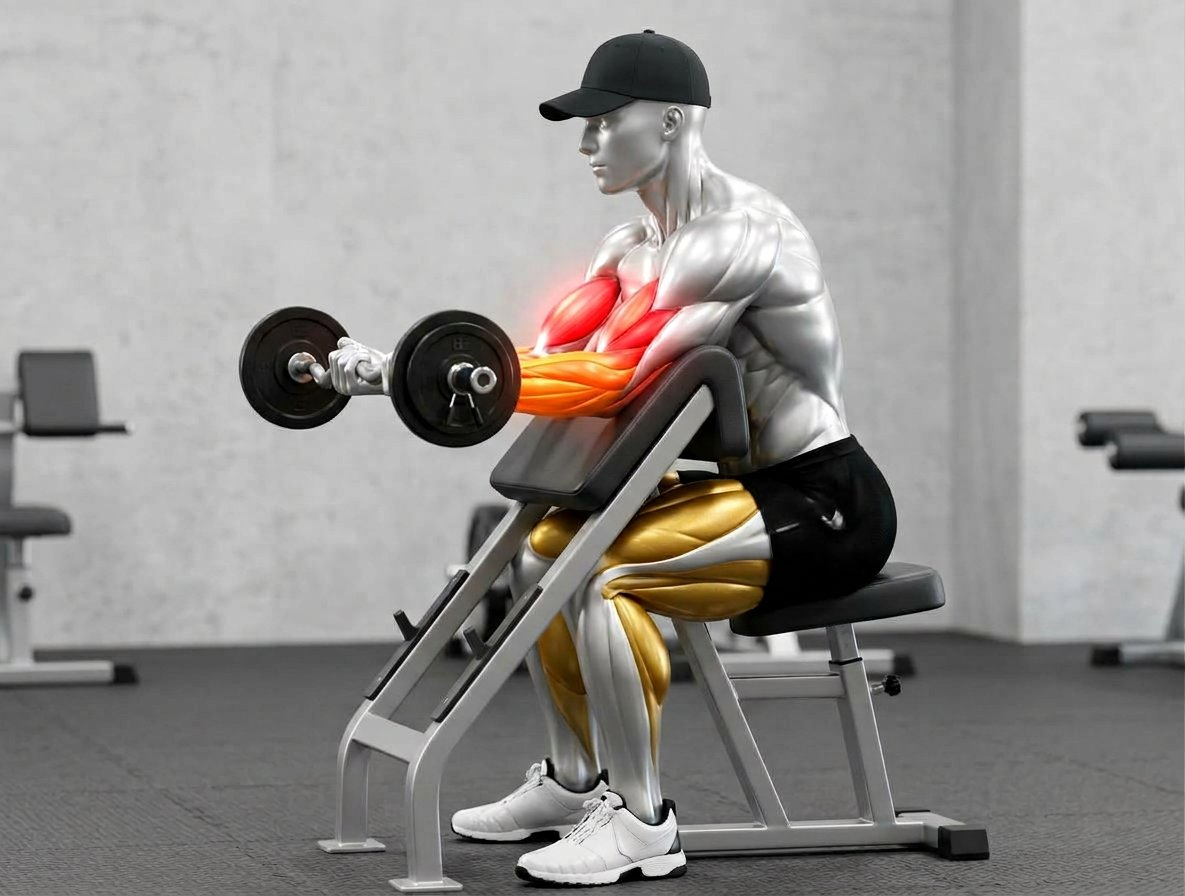
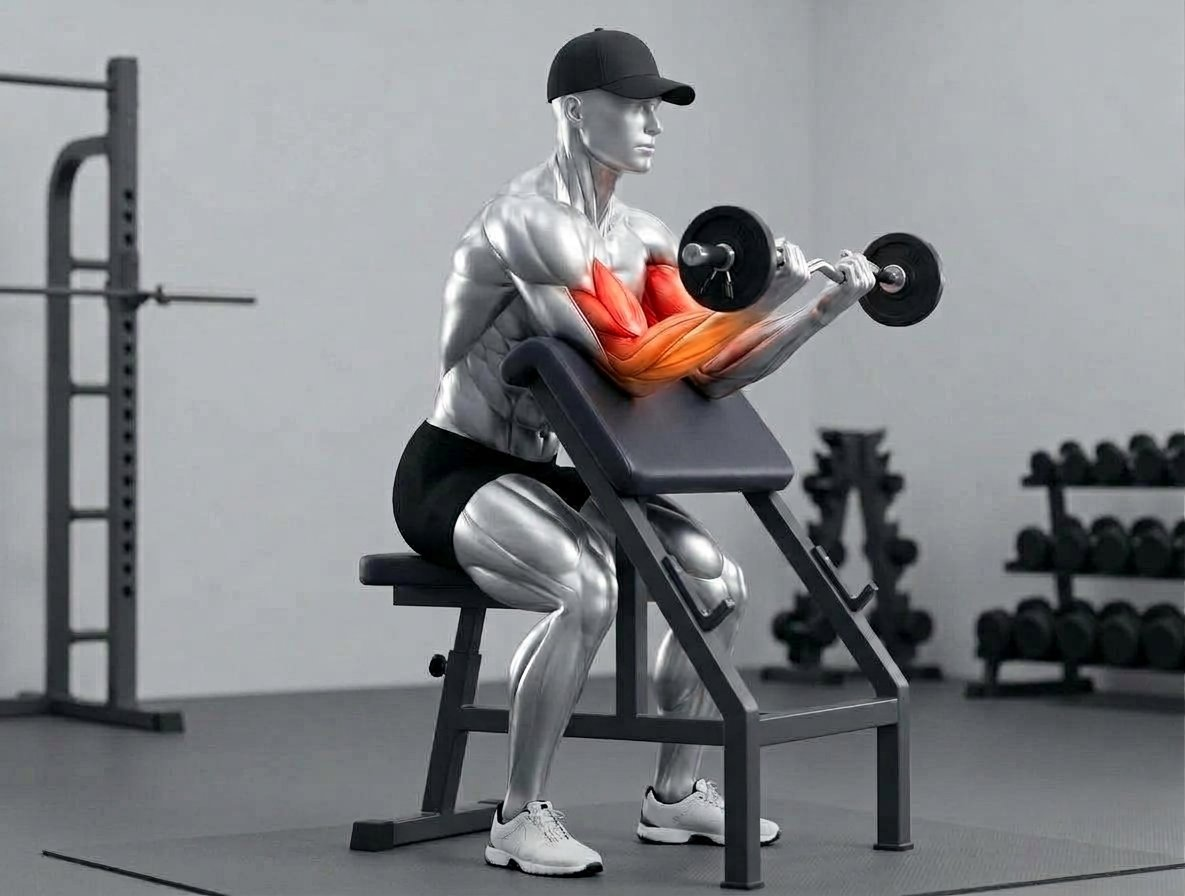
Vague 1 lot 1 ready: 4 biceps refs verified + precise prompts
- 01 curl EZ, 02 scott EZ pronation (regenerated: overhand grip),
  03 hammer seated (validated), 04 incline DB (new)
- 06-DESCRIPTIONS-PRECISES.md: B1-B4 FR+EN prompts

diff --git a/yanis-fitness-evolution/docs/videos-3d/06-DESCRIPTIONS-PRECISES.md b/yanis-fitness-evolution/docs/videos-3d/06-DESCRIPTIONS-PRECISES.md
@@ -85,3 +85,79 @@ haussées), coudes tendus, hanches, genoux, tête.
 ```text
 Animate this same silver-chrome athletic man with matte black baseball cap, black shorts, white sneakers, standing tall holding an orange resistance band with both hands at chest height, arms straight forward. PHASE 1 (~2s): pull the band apart sideways by squeezing the shoulder blades together, band stretched across the chest, arms staying at chest height. PHASE 2 (~2-3s): slow controlled return forward. LOCKED: torso, shoulders down (no shrugging), elbows straight, hips, knees, head. Upper-back and rear shoulders glowing orange with stable glow, no flicker. Front view, static camera, bright gym, end pose identical to start pose for a perfect loop. AVOID: bending elbows, shrugging shoulders, torso rotation, band morphing, deformed hands, extra limbs, watermark, text.
 ```
+
+---
+
+## Vague 1 — Lot 1 : biceps 01→04 (21/10/2026)
+
+### B1 — Curl barre EZ (debout)
+
+**Photo :** `vague1-biceps-01-curl-ez.jpg`
+
+**Description précise (FR) :** Debout, barre EZ tenue en SUPINATION
+(paumes vers le haut), bras le long du corps, coudes plaqués aux flancs.
+PHASE 1 (~2,5 s) : flexion des coudes, la barre monte en arc vers les
+épaules, coudes IMMOBILES collés au corps, buste droit, aucun élan.
+PHASE 2 (~2 s) : descente contrôlée jusqu'à bras quasi tendus (coudes
+jamais verrouillés). VERROUILLÉ : coudes au corps, poignets droits,
+pieds au sol, regard devant.
+
+**Prompt arena.ai (EN, copiable) :**
+
+```text
+Animate this same silver-chrome athletic man with matte black baseball cap, black shorts, white sneakers, standing and holding a chrome EZ curl bar with small black plates with an UNDERHAND supinated grip (palms facing up), arms down, elbows pinned against his sides. PHASE 1 (~2.5s): bend ONLY the elbows, curling the bar up in an arc toward the shoulders, elbows GLUED to the body and perfectly still, torso upright, no swinging or leaning. PHASE 2 (~2s): slow controlled lowering back to nearly straight arms (elbows never locked). LOCKED: elbows against the body, straight wrists, feet planted, eyes forward. Biceps glowing vivid RED with stable glow, no flicker. Front three-quarter medium shot, static camera, bright gym, end pose identical to start pose for a perfect loop. AVOID: moving elbows, swinging torso, bent wrists, fully locked elbows, extra limbs, deformed hands, flickering muscles, watermark, text.
+```
+
+### B2 — Curl pupitre barre EZ pronation
+
+**Photo :** `vague1-biceps-02-scott-ez-pronation.jpg`
+
+**Description précise (FR) :** Assis au pupitre (banc Scott), haut des
+bras posé À PLAT sur le plan incliné, barre EZ en PRISE PRONATION
+(paumes vers le BAS, dos des mains visible — reverse curl). PHASE 1
+(~2,5 s) : flexion des coudes, la barre monte vers le menton, bras
+COLLÉS au pupitre, buste immobile. PHASE 2 (~2 s) : descente lente sans
+tendre les bras à fond. VERROUILLÉ : bras sur le pupitre en permanence,
+prise pronation gardée, aucune épaule qui bouge.
+
+**Prompt arena.ai (EN, copiable) :**
+
+```text
+Animate this same silver-chrome athletic man with matte black baseball cap, black shorts, white sneakers, seated at a preacher curl bench, upper arms resting FLAT on the angled pad, holding a chrome EZ curl bar with small black plates with an OVERHAND PRONATED GRIP (palms facing DOWN, knuckles up — reverse curl). PHASE 1 (~2.5s): bend ONLY the elbows, curling the bar up toward the chin, upper arms GLUED to the pad, torso still. PHASE 2 (~2s): slow lowering without fully straightening the arms. LOCKED: arms on the pad at all times, pronated grip held, no shoulder movement. Biceps glowing vivid RED and forearms orange, stable glow, no flicker. Side medium shot showing the pad contact and the overhand grip, static camera, bright gym, end pose identical to start pose for a perfect loop. AVOID: underhand grip, arms lifting off the pad, swinging torso, locked elbows, extra limbs, deformed hands, flickering muscles, watermark, text.
+```
+
+### B3 — Curl marteau assis
+
+**Photo :** `vague1-biceps-03-marteau-assis.jpg`
+
+**Description précise (FR) :** Assis bien droit sur un banc plat, un
+haltère dans chaque main en PRISE MARTEAU / NEUTRE (paumes FACE À FACE,
+vers l'intérieur). PHASE 1 (~2,5 s) : flexion des coudes, les deux
+haltères montent ENSEMBLE vers les épaules, coudes fixes aux flancs,
+paumes RESTENT face à face tout le long (aucune rotation), dos droit,
+fesses sur le banc. PHASE 2 (~2 s) : descente contrôlée, bras quasi
+tendus. VERROUILLÉ : prise neutre, coudes aux flancs, posture assise.
+
+**Prompt arena.ai (EN, copiable) :**
+
+```text
+Animate this same silver-chrome athletic man with matte black baseball cap, black shorts, white sneakers, seated upright on a flat bench, a hex dumbbell in each hand with a NEUTRAL HAMMER GRIP (palms facing EACH OTHER inward). PHASE 1 (~2.5s): bend ONLY the elbows, curling both dumbbells up together toward the shoulders, elbows pinned at his sides, palms STAY facing each other the whole time (no rotation), back straight, glutes on the bench. PHASE 2 (~2s): slow controlled lowering to arms nearly straight. LOCKED: neutral grip, elbows at sides, seated posture. Biceps glowing vivid RED, stable glow, no flicker. Front three-quarter medium shot, static camera, bright gym, end pose identical to start pose for a perfect loop. AVOID: rotating palms, moving elbows, leaning back, standing up, alternating arms, extra limbs, deformed hands, flickering muscles, watermark, text.
+```
+
+### B4 — Curl incliné haltères
+
+**Photo :** `vague1-biceps-04-incline-halteres.jpg`
+
+**Description précise (FR) :** Assis sur un banc INCLINÉ à ~45°, dos
+collé au dossier, bras pendants, un haltère dans chaque main en
+supination. PHASE 1 (~2,5 s) : flexion des coudes, les haltères montent
+vers les épaules, coudes pointés vers le BAS et légèrement en arrière,
+IMMOBILES, dos collé au banc, aucun élan. PHASE 2 (~2 s) : descente
+complète, étirement en bas. VERROUILLÉ : dos sur le banc, coudes fixes
+vers le bas, pieds à plat au sol.
+
+**Prompt arena.ai (EN, copiable) :**
+
+```text
+Animate this same silver-chrome athletic man with matte black baseball cap, black shorts, white sneakers, seated on an incline bench reclined at about 45 degrees, back FLAT against the pad, arms hanging down, a hex dumbbell in each hand with underhand grip. PHASE 1 (~2.5s): bend ONLY the elbows, curling both dumbbells up toward the shoulders, elbows pointing DOWN and slightly back and perfectly STILL, back glued to the bench, no swinging. PHASE 2 (~2s): slow full lowering to a deep stretch at the bottom. LOCKED: back on the bench, elbows fixed pointing down, feet flat on the floor. Biceps glowing vivid RED, stable glow, no flicker. Side three-quarter medium shot, static camera, bright gym, end pose identical to start pose for a perfect loop. AVOID: back lifting off the bench, elbows drifting forward, swinging dumbbells, partial range, extra limbs, deformed hands, flickering muscles, watermark, text.
+```
